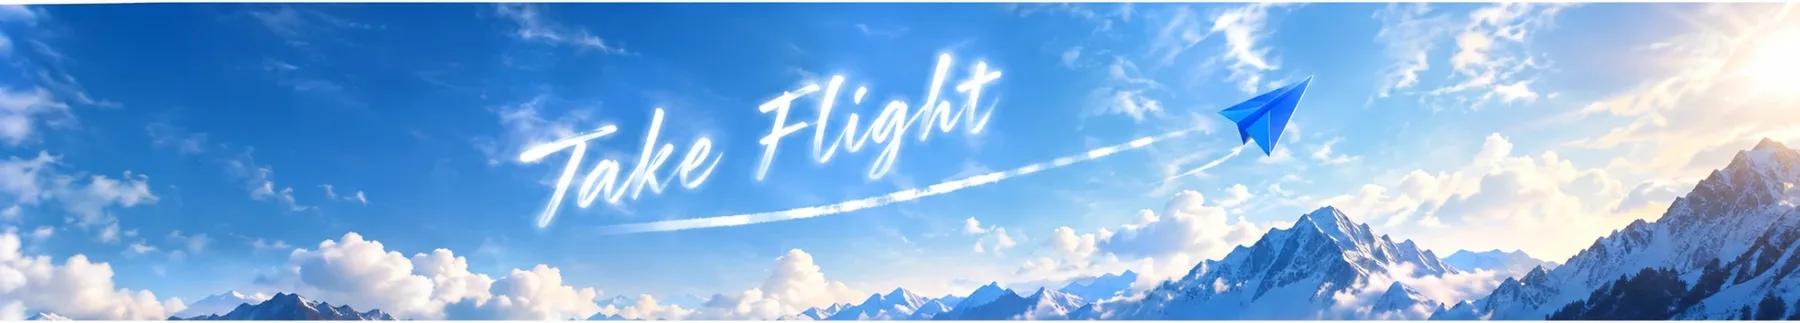
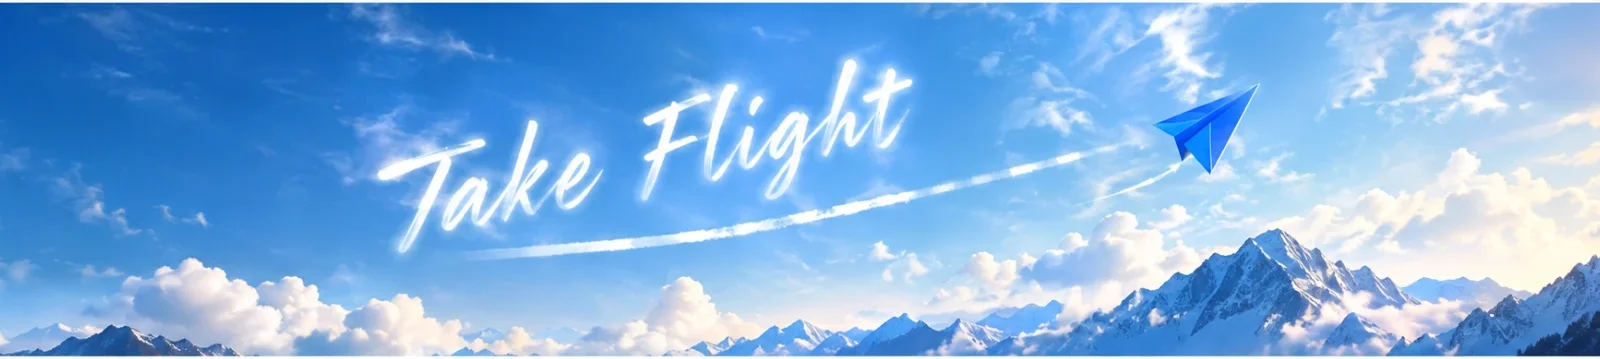
Phase 5 round 5: fix mention RLS bug, chat polish, square cover art, hero tweaks
Real bugs fixed: notifications RLS insert policy re-issued as a safety net
(schema_v19.sql) since mentioning someone was failing with a row-level
security violation; a global taskComments listener was tearing down and
rebuilding every open discussion panel's DOM on every message anywhere in
the episode, defeating round 17's smooth-reload fix specifically for task
comments (episode-level discussion was unaffected).

New: mentioned names get a highlighted background in rendered messages;
"Clear all messages" bulk-delete (with Undo) on any discussion; the task
comment panel now has a fixed height with its own scrollbar instead of
growing forever.

Visual: client photos (both the detail page and home-page cards) switched
from a wide banner strip to square "podcast cover art" proportions, with a
real center-crop at upload time; the Employee-of-the-Month photo is bigger,
borderless, and feathers into the hero photo via a mask-image vignette; the
hero banner's crop was widened for real pan room and repositioned slightly
right/down, verified at both wide and narrow window widths after an initial
attempt visibly clipped the "Flight" text.

Also: fixed a leftover em-dash in Cargo.toml's package description, and
documented that the "shows as WebView2 in Task Manager" complaint is a
confirmed, currently-unfixable upstream Tauri/WebView2 limitation on
Windows, not a bug in this app.

diff --git a/src/main.js b/src/main.js
@@ -91,6 +91,23 @@ function escapeHtml(s){ return String(s==null?'':s).replace(/[&<>"']/g,function(
 // Operates on already-escapeHtml()'d text (safe: the pattern below can't
 // match anything that would introduce a tag), so it's fine to inject the
 // resulting <a> markup straight into innerHTML.
+// Highlights "@Full Name" in an already-escaped+linkified comment body with
+// a light background, like every modern chat app (Slack/Discord/Teams) -
+// operates on the real mentioned-id list (the comment's own `mentions`
+// column), not a guess from the text, so it only highlights people who
+// were actually notified. `nameOf(uid)` is the caller's own uid->display-
+// name lookup (renderComment's `who()`, or getMentionRoster()'s map).
+function mentionifyHtml(html, mentionedIds, nameOf){
+  if(!mentionedIds || !mentionedIds.length) return html;
+  mentionedIds.forEach(function(uid){
+    var name = nameOf(uid);
+    if(!name || name==='Someone') return;
+    var esc = escapeHtml('@'+name);
+    var pattern = esc.replace(/[.*+?^${}()|[\]\\]/g, '\\$&');
+    html = html.replace(new RegExp(pattern, 'g'), '<span class="mention-highlight">'+esc+'</span>');
+  });
+  return html;
+}
 function linkifyHtml(escaped){
   return escaped.replace(/((?:https?:\/\/|www\.)[^\s<]+)/gi, function(match){
     // Trim off trailing punctuation that's almost always part of the
@@ -942,16 +959,22 @@ function renderHome(){
     var cards = docs.map(function(d,i){
       var c = d.data();
       var color = c.color || CLIENT_COLORS[i%CLIENT_COLORS.length];
+      // Cover-art card (2026-09-29): the square photo is the whole point of
+      // the card now - podcast/album-cover-art convention, same square
+      // treatment as the client detail page's own cover art. Hosted-by and
+      // overview text are gone per Humayun's explicit ask (services/team/
+      // view-board are the only footer info that remains) - the client's
+      // name stays as a minimal caption directly on the photo itself
+      // (gradient scrim, same idea as a Spotify/Apple Music tile) rather
+      // than disappearing completely, since a card with literally no label
+      // at all would make the grid unusable for actually finding a client.
       return '<a class="client-card" href="#/client/'+d.id+'">'+
-        '<div class="client-card-rail'+(c.imageUrl?'':' no-image')+'" style="'+(c.imageUrl?'background-image:url(\''+escapeHtml(c.imageUrl)+'\')':'background:linear-gradient(135deg,'+color+',var(--line-soft))')+'">'+
+        '<div class="client-card-photo'+(c.imageUrl?'':' no-image')+'" style="'+(c.imageUrl?'background-image:url(\''+escapeHtml(c.imageUrl)+'\')':'background:linear-gradient(135deg,'+color+',var(--line-soft))')+'">'+
         (canManage()?'<div class="client-card-actions"><button type="button" class="icon-btn" data-edit-client-card="'+d.id+'" title="Edit name/host">'+ICON_PENCIL+'</button><button type="button" class="icon-btn" data-delete-client-card="'+d.id+'" title="Delete client">'+ICON_TRASH+'</button></div>':'')+
+        '<div class="client-card-caption">'+escapeHtml(c.name)+'</div>'+
         '</div>'+
-        '<div class="client-card-body">'+
-        '<div class="client-card-name">'+escapeHtml(c.name)+'</div>'+
-        '<div class="client-card-host">Hosted by '+escapeHtml(c.hostName||'-')+'</div>'+
-        '<div class="client-card-tagline">'+escapeHtml(c.tagline||'')+'</div>'+
         '<div class="client-card-foot"><span>'+(c.services?c.services.length:0)+' services</span>'+(isAdmin()?'<span class="badge badge-team">'+escapeHtml(teamName(c.teamId))+'</span>':'')+(c.archived?'<span class="badge" style="background:var(--line-soft);">Archived</span>':'')+(c.example?'<span class="badge badge-upcoming">Example</span>':'<span>View board →</span>')+'</div>'+
-        '</div></a>';
+        '</a>';
     }).join('');
     if(canManage()) cards += '<button type="button" class="add-client-card" id="addClientCard">+ Add a client</button>';
     grid.innerHTML = cards || '<div class="empty-state">No clients'+(showArchivedClients?' in your team yet':' - toggle "Show archived" above if you\'re looking for one you archived')+'.</div>';
@@ -1025,15 +1048,21 @@ function renderClient(clientId){
     var c = snap.data();
     var mgr = canManage();
     paint(
-      '<div class="page-head"><div><div class="eyebrow">Client</div><h1 class="page-title">'+escapeHtml(c.name)+(c.archived?' <span class="badge" style="background:var(--line-soft);vertical-align:middle;">Archived</span>':'')+(mgr?' <button type="button" class="icon-btn" id="editClientNameBtn" title="Edit podcast name / host">'+ICON_PENCIL+'</button>':'')+'</h1>'+
-      '<div class="page-sub">Hosted by '+escapeHtml(c.hostName||'-')+' · <span id="clientTeamRow">Team: <b>'+escapeHtml(teamName(c.teamId))+'</b>'+(isAdmin()?' <button type="button" class="btn btn-sm" id="editTeamBtn" style="width:auto;padding:1px 8px;font-size:11px;vertical-align:middle;">Change</button>':'')+'</span></div></div>'+
-      '<div style="display:flex;align-items:flex-start;gap:8px;flex-wrap:wrap;">'+
+      // Cover art (square, podcast-art proportions - 2026-09-29) sits beside
+      // the header instead of a full-width banner strip above it, same
+      // "art beside metadata" layout convention podcast/album pages use.
+      '<div class="client-hero">'+
+      '<div class="client-cover'+(c.imageUrl?'':' no-image')+'" style="'+(c.imageUrl?'background-image:url(\''+escapeHtml(c.imageUrl)+'\')':'')+'">'+
+      (mgr?'<label class="client-cover-change" title="Change photo">'+ICON_PENCIL+'<input type="file" accept="image/*" id="clientImageInput" style="display:none;"></label>':'')+
+      '</div>'+
+      '<div class="client-hero-info">'+
+      '<div class="page-head" style="margin:0;"><div><div class="eyebrow">Client</div><h1 class="page-title">'+escapeHtml(c.name)+(c.archived?' <span class="badge" style="background:var(--line-soft);vertical-align:middle;">Archived</span>':'')+(mgr?' <button type="button" class="icon-btn" id="editClientNameBtn" title="Edit podcast name / host">'+ICON_PENCIL+'</button>':'')+'</h1>'+
+      '<div class="page-sub">Hosted by '+escapeHtml(c.hostName||'-')+' · <span id="clientTeamRow">Team: <b>'+escapeHtml(teamName(c.teamId))+'</b>'+(isAdmin()?' <button type="button" class="btn btn-sm" id="editTeamBtn" style="width:auto;padding:1px 8px;font-size:11px;vertical-align:middle;">Change</button>':'')+'</span></div></div></div>'+
+      '<div style="display:flex;align-items:flex-start;gap:8px;flex-wrap:wrap;margin-top:14px;">'+
       (mgr?'<button type="button" class="btn btn-sm" id="archiveClientBtn">'+(c.archived?'Unarchive':'Archive')+'</button><button type="button" class="btn btn-sm btn-danger" id="deleteClientBtn">Delete permanently</button>':'')+
       (mgr?'<button type="button" class="btn btn-primary btn-sm" id="genEpisodesBtn">Generate upcoming episodes</button>':'')+
       '</div>'+
       '</div>'+
-      '<div class="client-card-rail'+(c.imageUrl?'':' no-image')+'" style="margin-bottom:18px;border-radius:var(--radius);height:168px;position:relative;box-shadow:var(--shadow);'+(c.imageUrl?'background-image:url(\''+escapeHtml(c.imageUrl)+'\');background-size:cover;background-position:center;':'background:linear-gradient(135deg,var(--blue-soft),var(--line-soft));')+'">'+
-      (mgr?'<label class="btn btn-sm" style="position:absolute;bottom:10px;right:10px;cursor:pointer;">Change photo<input type="file" accept="image/*" id="clientImageInput" style="display:none;"></label>':'')+
       '</div>'+
       '<div class="overview-grid">'+
       '<div class="panel"><h3>Overview'+(mgr?' <button type="button" class="btn btn-sm" id="editOverviewBtn" style="float:right;">Edit</button>':'')+'</h3>'+
@@ -1097,7 +1126,13 @@ function renderClient(clientId){
     if(imgInput) imgInput.addEventListener('change', function(){
       var file = imgInput.files[0]; if(!file) return;
       showToast('success','Uploading photo…');
-      compressImage(file, {maxWidth:800,maxHeight:800,quality:.85}).then(function(blob){
+      // Square cover-art crop (2026-09-29, podcast/album-art convention,
+      // matches the client-cover display which is a real square, not just
+      // square via CSS) - 1200px is already far sharper than this ever
+      // needs to render at in the UI (the cover art tops out at ~190px on
+      // screen, more on a big monitor's home-page grid), so this stays well
+      // short of literally shipping a 3000x3000 file for no visible gain.
+      compressImage(file, {maxWidth:1200,maxHeight:1200,quality:.88,square:true}).then(function(blob){
         var key = 'clients/'+clientId+'/photo_'+Date.now()+'.jpg';
         return uploadFile(new File([blob],'photo.jpg',{type:'image/jpeg'}), key);
       }).then(function(key){
@@ -1986,18 +2021,45 @@ function renderEpisode(episodeId){
       // re-renders this episode's checklist with them, the same "global
       // table subscription, filtered query on each refetch" pattern the
       // tasks listener itself already uses.
-      function fetchAndRenderCounts(){
+      function fetchCommentCounts(){
         var taskIds = ts.docs.map(function(d){ return d.id; });
-        (taskIds.length ? db.collection('taskComments').where('taskId','in',taskIds).get() : Promise.resolve({docs:[]}))
+        return (taskIds.length ? db.collection('taskComments').where('taskId','in',taskIds).get() : Promise.resolve({docs:[]}))
           .then(function(cSnap){
             var counts = {};
             cSnap.docs.forEach(function(d){ var row=d.data(); counts[row.taskId]=(counts[row.taskId]||0)+1; });
-            renderChecklist(counts);
+            return counts;
           })
-          .catch(function(){ renderChecklist({}); }); // fails open - still render the checklist without counts if this one query fails
+          .catch(function(){ return {}; }); // fails open - still render the checklist without counts if this one query fails
       }
-      refreshCountsNow = fetchAndRenderCounts;
-      fetchAndRenderCounts();
+      // Phase 5 fix (2026-09-29, "the screen starts loading" every time a
+      // message is sent): this used to call renderChecklist(counts) - a
+      // full box.innerHTML rebuild of every task row - on EVERY taskComments
+      // change anywhere in the episode (see unsubComments below, which has
+      // no filter). That tore down and recreated every already-expanded
+      // "Comments, links & files" panel's DOM node from scratch, which lost
+      // the data-collab-ready flag loadCollab() relies on to skip its
+      // blank-skeleton loading state on a reload - so sending your own
+      // message re-triggered the exact jarring blank-screen flash that fix
+      // was supposed to prevent. refreshCountsNow now only does that full
+      // rebuild on the very first render (when the task list itself needs
+      // building); every later comment-driven refresh just patches each
+      // closed task's count label in place and re-loads an already-open
+      // panel on its EXISTING node (loadCollab's own fade-in path handles
+      // that smoothly) - nothing gets torn down.
+      refreshCountsNow = function(){
+        fetchCommentCounts().then(function(counts){
+          Array.prototype.forEach.call(box.querySelectorAll('[data-collab]'), function(btn){
+            var taskId = btn.getAttribute('data-collab');
+            if(expandedTasks[taskId]){
+              var panel = document.getElementById('collab_'+taskId);
+              if(panel) loadTaskCollab(taskId, panel);
+            } else {
+              btn.textContent = 'Comments, links & files'+(counts[taskId]?' ('+counts[taskId]+')':'');
+            }
+          });
+        });
+      };
+      fetchCommentCounts().then(renderChecklist);
 
       function taskRowHtml(t, commentCounts){
         var r = roleOf(t.role);
@@ -2461,7 +2523,7 @@ function loadCollab(kind, id, panel){
         var editedInline = (grouped && c.editedAt) ? ' <span class="comment-edited-tag">(edited)</span>' : '';
         return '<div class="comment-row'+(grouped?' comment-row-grouped':'')+'" data-id="'+c.id+'">'+gutter+
           '<div class="comment-main">'+actions+head+
-          (c.body?'<div class="comment-body">'+linkifyHtml(escapeHtml(c.body))+editedInline+'</div>':'')+
+          (c.body?'<div class="comment-body">'+mentionifyHtml(linkifyHtml(escapeHtml(c.body)), c.mentions, who)+editedInline+'</div>':'')+
           attHtml+renderReactions(c.id)+
           '</div></div>';
       }
@@ -2477,6 +2539,39 @@ function loadCollab(kind, id, panel){
           (l.editedAt?'<span class="comment-edited-tag">(edited)</span>':'')+
           actionButtons('edit-link="'+l.id+'"', 'delete-link="'+l.id+'"', l.addedBy)+
           '</div>';
+      }
+
+      // Clears every message in this discussion at once (Humayun's ask,
+      // 2026-09-29) - a manager/admin-only bulk action, same access tier
+      // the existing per-comment delete RLS policy already grants for
+      // someone else's comment (see supabase/schema_v5.sql's "...delete"
+      // policies: author, admin, or a manager of that comment's own team -
+      // canManage() here is just the client-side mirror of that same
+      // check). Reactions have no FK cascade onto the comment tables (see
+      // schema_v6.sql), so they're deleted explicitly; attachments DO
+      // cascade at the database level, so they're only snapshotted here
+      // (for Undo) and not separately deleted.
+      function clearAllComments(){
+        if(!comments.length) return;
+        var n = comments.length;
+        if(!confirm('Delete all '+n+' message'+(n===1?'':'s')+' in this discussion? This also removes their attachments and reactions - use Undo right after if you change your mind.')) return;
+        var commentIds = comments.map(function(c){ return c.id; });
+        var reactionSnap = reactions.filter(function(r){ return commentIds.indexOf(r.commentId)>-1; });
+        var attachmentSnap = attachments.filter(function(a){ return a.commentId && commentIds.indexOf(a.commentId)>-1; });
+        var commentTuples = comments.map(function(c){ return {col:cfg.comments, id:c.id, data:c}; });
+        var reactionTuples = reactionSnap.map(function(r){ return {col:'commentReactions', id:r.id, data:r}; });
+        var attachmentTuples = attachmentSnap.map(function(a){ return {col:cfg.attachments, id:a.id, data:a}; });
+        Promise.all(
+          commentIds.map(function(cid){ return db.doc(cfg.comments+'/'+cid).delete(); })
+            .concat(reactionSnap.map(function(r){ return db.doc('commentReactions/'+r.id).delete(); }))
+        ).then(function(){
+          actionWithUndo('Cleared '+n+' message'+(n===1?'':'s'), function(){
+            restoreSnapshot([commentTuples, reactionTuples.concat(attachmentTuples)])
+              .then(function(){ showToast('success','Restored'); loadCollab(kind,id,panel); })
+              .catch(function(err){ showToast('error','Restore failed - '+errMsg(err)); });
+          });
+          loadCollab(kind,id,panel);
+        }).catch(function(err){ showToast('error', errMsg(err)); });
       }
 
       function render(){
@@ -2498,6 +2593,7 @@ function loadCollab(kind, id, panel){
         var prevTop = null;
         panel.setAttribute('data-collab-ready','1');
         panel.innerHTML =
+          (comments.length && canManage() ? '<button type="button" class="collab-clear-all-btn" id="clearAllBtn_'+id+'">Clear all messages</button>' : '')+
           '<div class="collab-list collab-fade-in">'+
             (topLevelComments.length ? topLevelComments.map(function(c){
               var topGrouped = isContinuation(prevTop, c);
@@ -2634,6 +2730,8 @@ function loadCollab(kind, id, panel){
       var mentionBox = null;
       function hideMentionBox(){ if(mentionBox){ mentionBox.remove(); mentionBox = null; } }
       function wire(){
+        var clearAllBtn = document.getElementById('clearAllBtn_'+id);
+        if(clearAllBtn) clearAllBtn.addEventListener('click', clearAllComments);
         var textarea = document.getElementById('commentInput_'+id);
         document.getElementById('commentSend_'+id).addEventListener('click', sendComposerMessage);
         textarea.addEventListener('keydown', function(ev){

diff --git a/src/style.css b/src/style.css
@@ -189,6 +189,19 @@ button,input,select,textarea{font-family:inherit;color:inherit;}
 }
 .eyebrow{font-size:11px;text-transform:uppercase;letter-spacing:1.6px;color:var(--muted);font-weight:600;margin-bottom:7px;}
 .page-head{display:flex;align-items:flex-start;justify-content:space-between;gap:16px;margin-bottom:24px;flex-wrap:wrap;}
+/* Client detail page's cover-art header (2026-09-29) - square "podcast
+   cover art" proportions sitting beside the page-head, instead of a short
+   wide banner strip above it. */
+.client-hero{display:flex;gap:22px;align-items:flex-start;margin-bottom:28px;}
+.client-cover{width:190px;height:190px;flex:none;border-radius:var(--radius);overflow:hidden;position:relative;box-shadow:var(--shadow);background-size:cover;background-position:center;background-color:var(--line-soft);}
+.client-cover.no-image{background-image:linear-gradient(135deg,var(--blue-soft),var(--line-soft));}
+.client-cover-change{position:absolute;bottom:9px;right:9px;width:32px;height:32px;border-radius:50%;background:rgba(10,20,40,.55);color:#fff;display:flex;align-items:center;justify-content:center;cursor:pointer;transition:background .12s ease,transform .12s ease;}
+.client-cover-change:hover{background:rgba(10,20,40,.78);transform:scale(1.06);}
+.client-hero-info{flex:1;min-width:0;padding-top:2px;}
+@media (max-width:640px){
+  .client-hero{flex-direction:column;}
+  .client-cover{width:100%;height:auto;aspect-ratio:1/1;}
+}
 .page-back-btn{display:inline-flex;align-items:center;gap:6px;border:none;background:none;color:var(--muted);font-size:13px;font-weight:600;padding:0;margin-bottom:14px;cursor:pointer;}
 .page-back-btn:hover{color:var(--ink);}
 .page-title{font-size:32px;}
@@ -208,21 +221,24 @@ button,input,select,textarea{font-family:inherit;color:inherit;}
 .card-grid{display:grid;grid-template-columns:repeat(auto-fill,minmax(240px,1fr));gap:18px;}
 .client-card{background:var(--surface);border:1px solid var(--line);border-radius:var(--radius);padding:0;box-shadow:var(--shadow);text-decoration:none;color:var(--ink);overflow:hidden;display:flex;flex-direction:column;transition:transform .18s var(--ease),box-shadow .18s ease,border-color .18s ease;}
 .client-card:hover{border-color:var(--blue);transform:translateY(-4px);box-shadow:var(--shadow-lg);}
-.client-card-rail{height:92px;background-size:cover;background-position:center;position:relative;overflow:hidden;}
-/* Edit/delete straight from the home card (2026-09-28) - sits on the rail
-   so it reads the same regardless of whether the rail is a photo or a
-   plain color gradient; hover-revealed like every other row-action this
-   app uses, dark translucent buttons for contrast against either. */
+/* Cover-art card (2026-09-29): the square photo IS the card now - podcast/
+   album-art convention, same square treatment as the client detail page's
+   own cover art. Hosted-by/overview text are gone (Humayun's explicit ask -
+   services/team/view-board are the only footer info left); the name stays
+   as a minimal caption on the photo itself rather than disappearing
+   entirely, so the grid is still usable for actually finding a client. */
+.client-card-photo{width:100%;aspect-ratio:1/1;background-size:cover;background-position:center;position:relative;overflow:hidden;}
+.client-card-photo.no-image{background-image:linear-gradient(135deg,var(--blue-soft),var(--line-soft));}
+/* Edit/delete straight from the home card (2026-09-28) - sits on the photo
+   so it reads the same regardless of whether it's a real photo or a plain
+   color gradient; hover-revealed like every other row-action this app
+   uses, dark translucent buttons for contrast against either. */
 .client-card-actions{position:absolute;top:7px;right:7px;display:flex;gap:4px;opacity:0;transition:opacity .12s ease;z-index:2;}
 .client-card:hover .client-card-actions{opacity:1;}
 .client-card-actions .icon-btn{background:rgba(0,0,0,.45);color:#fff;}
 .client-card-actions .icon-btn:hover{background:rgba(0,0,0,.7);color:#fff;}
-.client-card-rail.no-image{background:linear-gradient(135deg,var(--blue-soft),var(--line-soft));}
-.client-card-body{padding:17px;display:flex;flex-direction:column;gap:6px;flex:1;}
-.client-card-name{font-family:var(--font-display);font-size:22px;font-weight:600;}
-.client-card-host{font-size:12.5px;color:var(--muted);}
-.client-card-tagline{font-size:13px;color:var(--ink-soft);margin-top:4px;line-height:1.45;}
-.client-card-foot{margin-top:auto;padding-top:11px;border-top:1px solid var(--line);font-size:12px;color:var(--muted);display:flex;justify-content:space-between;align-items:center;}
+.client-card-caption{position:absolute;left:0;right:0;bottom:0;padding:26px 14px 12px;background:linear-gradient(to top,rgba(8,16,32,.72),transparent);color:#fff;font-family:var(--font-display);font-size:17px;font-weight:700;text-shadow:0 1px 6px rgba(0,0,0,.3);}
+.client-card-foot{padding:11px 14px;font-size:12px;color:var(--muted);display:flex;justify-content:space-between;align-items:center;}
 .add-client-card{border:1.5px dashed var(--line);border-radius:var(--radius);display:flex;align-items:center;justify-content:center;min-height:124px;color:var(--muted);font-weight:600;font-size:14px;cursor:pointer;background:none;transition:border-color .15s ease,color .15s ease,transform .15s ease;}
 .add-client-card:hover{border-color:var(--blue);color:var(--blue);transform:translateY(-2px);}
 .section{margin-top:38px;}
@@ -321,7 +337,9 @@ button,input,select,textarea{font-family:inherit;color:inherit;}
    afterthought and felt cramped ("too small") - now a proper card with its
    own background/border/padding and a real minimum height so it presents
    as a genuine discussion panel even with only one or two messages in it. */
-.task-collab{margin-top:12px;padding:14px;background:var(--paper);border:1px solid var(--line);border-radius:12px;min-height:200px;display:flex;flex-direction:column;gap:10px;}
+.task-collab{margin-top:12px;padding:14px;background:var(--paper);border:1px solid var(--line);border-radius:12px;height:250px;display:flex;flex-direction:column;gap:10px;}
+.task-collab .collab-fade-in{flex:1;overflow-y:auto;min-height:0;}
+.task-collab .composer{flex:0 0 auto;}
 /* Phase 2.5 batch A: a class selector like .task-collab{display:flex} beats
    the browser's own [hidden]{display:none} rule on specificity, so setting
    the `hidden` attribute (which the JS "Hide discussion" handler already
@@ -340,6 +358,8 @@ button,input,select,textarea{font-family:inherit;color:inherit;}
    loadCollab()'s isContinuation()/renderComment() in main.js. */
 .collab-list{display:flex;flex-direction:column;gap:10px;padding:4px 2px;}
 .collab-fade-in{animation:fadeIn .16s ease;}
+.collab-clear-all-btn{align-self:flex-end;flex:0 0 auto;border:none;background:none;color:var(--muted);font-size:11.5px;font-weight:600;cursor:pointer;padding:2px 4px;margin-bottom:2px;transition:color .12s ease;}
+.collab-clear-all-btn:hover{color:var(--overdue);}
 .collab-empty{font-size:13px;color:var(--muted);padding:14px 2px;}
 .comment-row{font-size:13.5px;display:flex;gap:11px;padding:5px 10px;border-radius:10px;transition:background .1s ease;position:relative;}
 .comment-row:hover{background:var(--paper);}
@@ -362,6 +382,7 @@ button,input,select,textarea{font-family:inherit;color:inherit;}
 .icon-btn:hover{background:var(--line);color:var(--ink);}
 .comment-body{white-space:pre-wrap;word-break:break-word;line-height:1.5;}
 .comment-body a{color:var(--blue-2);}
+.mention-highlight{background:var(--blue-soft);color:var(--blue-2);border-radius:4px;padding:1px 4px;font-weight:600;}
 .comment-edit-box,.link-edit-box{display:flex;flex-direction:column;gap:6px;margin-top:3px;}
 .comment-edit-input{width:100%;min-height:60px;border:1px solid var(--line);background:var(--surface);border-radius:10px;padding:9px 11px;font-size:13.5px;font-family:inherit;resize:vertical;}
 .comment-edit-actions{display:flex;gap:8px;}
@@ -564,8 +585,13 @@ button,input,select,textarea{font-family:inherit;color:inherit;}
 .avatar-drop-hint{font-size:12px;color:var(--muted);}
 
 /* ---------- spotlight / hero banner ("Take Flight") ---------- */
-.spotlight-banner{position:relative;overflow:hidden;border-radius:20px;min-height:196px;padding:26px 30px;margin-bottom:30px;display:flex;align-items:center;gap:20px;background:linear-gradient(100deg,rgba(10,22,48,.55) 0%,rgba(10,22,48,.08) 55%,transparent 80%),url('/hero-banner.webp') center/cover no-repeat,linear-gradient(120deg,var(--blue),var(--blue-2));color:#fff;box-shadow:var(--shadow-lg);}
-.spotlight-photo{width:76px;height:76px;border-radius:16px;object-fit:cover;border:3px solid rgba(255,255,255,.5);flex:none;position:relative;z-index:1;box-shadow:var(--shadow);}
+.spotlight-banner{position:relative;overflow:hidden;border-radius:20px;min-height:196px;padding:26px 30px;margin-bottom:30px;display:flex;align-items:center;gap:20px;background:linear-gradient(100deg,rgba(10,22,48,.55) 0%,rgba(10,22,48,.08) 55%,transparent 80%),url('/hero-banner.webp') 53% 56%/cover no-repeat,linear-gradient(120deg,var(--blue),var(--blue-2));color:#fff;box-shadow:var(--shadow-lg);}
+/* Bigger, borderless, and feathered into the hero photo behind it (a soft
+   radial mask instead of a hard-edged square with a border) - 2026-09-29,
+   "shouldn't be enclosed in a box." Falls back to a plain circle in browsers
+   without mask-image support (very old WebView2 runtimes) rather than an
+   invisible photo. */
+.spotlight-photo{width:118px;height:118px;object-fit:cover;border-radius:50%;border:none;flex:none;position:relative;z-index:1;box-shadow:none;-webkit-mask-image:radial-gradient(circle at center, #000 52%, transparent 82%);mask-image:radial-gradient(circle at center, #000 52%, transparent 82%);}
 .spotlight-body{position:relative;z-index:1;flex:1;}
 .spotlight-eyebrow{font-size:11px;text-transform:uppercase;letter-spacing:1.6px;opacity:.9;font-weight:700;text-shadow:0 1px 6px rgba(0,0,0,.35);}
 .spotlight-name{font-family:var(--font-display);font-size:27px;font-weight:800;margin-top:3px;text-shadow:0 2px 14px rgba(0,0,0,.4);}

diff --git a/src/lib/imageCompress.js b/src/lib/imageCompress.js
@@ -3,19 +3,32 @@
 // on the Rust side at capture time (see src-tauri/), since re-encoding a
 // full screen capture through a JS canvas would mean shipping the
 // uncompressed bitmap across the Tauri IPC bridge first for no reason.
-export function compressImage(file, { maxWidth = 640, maxHeight = 640, quality = 0.82, mime = 'image/jpeg' } = {}) {
+export function compressImage(file, { maxWidth = 640, maxHeight = 640, quality = 0.82, mime = 'image/jpeg', square = false } = {}) {
   return new Promise((resolve, reject) => {
     const url = URL.createObjectURL(file);
     const img = new Image();
     img.onload = () => {
-      let { width, height } = img;
-      const scale = Math.min(1, maxWidth / width, maxHeight / height);
-      width = Math.round(width * scale);
-      height = Math.round(height * scale);
       const canvas = document.createElement('canvas');
-      canvas.width = width; canvas.height = height;
       const ctx = canvas.getContext('2d');
-      ctx.drawImage(img, 0, 0, width, height);
+      if (square) {
+        // Center-crop to 1:1 first (podcast/album cover-art convention -
+        // whatever shape someone uploads, the stored file is always a real
+        // square, not just square-LOOKING via CSS cropping at display time),
+        // then scale that square crop down to the target size.
+        const side = Math.min(img.width, img.height);
+        const sx = (img.width - side) / 2;
+        const sy = (img.height - side) / 2;
+        const size = Math.min(maxWidth, maxHeight, side);
+        canvas.width = size; canvas.height = size;
+        ctx.drawImage(img, sx, sy, side, side, 0, 0, size, size);
+      } else {
+        let { width, height } = img;
+        const scale = Math.min(1, maxWidth / width, maxHeight / height);
+        width = Math.round(width * scale);
+        height = Math.round(height * scale);
+        canvas.width = width; canvas.height = height;
+        ctx.drawImage(img, 0, 0, width, height);
+      }
       URL.revokeObjectURL(url);
       canvas.toBlob((blob) => {
         if (!blob) { reject(new Error('Could not compress image')); return; }

diff --git a/docs/phase-3-punch-list.md b/docs/phase-3-punch-list.md
@@ -287,8 +287,33 @@ Per Humayun's "keep going, rounds 4+" answer - continuing the staged rollout wit
 - **A process note worth keeping**: while investigating the music player in round 17.5, a `git worktree` test against a pre-Phase-5 commit confirmed a local-build-only quirk (no real `.env` here → `supabaseConfigured` becomes a compile-time `false` → Rollup dead-code-eliminates most of `boot()`) that made local `dist/` output look broken when it isn't - see round 17.5's write-up. Worth remembering for any future round: don't grep this sandbox's `dist/` output for feature verification, only for syntax-check-level confidence (which is all it's ever reliably given here).
 - Verified with a real `npm run build` plus an actual browser screenshot of the sidebar footer's icon row (all 4 buttons + truncated name) against the real compiled CSS, at the real ~264px sidebar width.
 
+### Round 19 (2026-09-29) - real bug testing round 18's build turned up: mention RLS failure, plus a big batch of chat/photo/hero polish from Humayun's own testing notes
+
+Humayun tested the round-18 build and reported a real bug plus a long list of concrete UI/UX requests in one message. Triaged and worked through all of it except the music-hosting architecture, which he explicitly said to defer ("no need to implement this now... but be sure to make this feature work then" - see the Still Open note below for the research done anyway, ready for whenever that round starts).
+
+- [x] **Real bug: mentioning someone failed - "new row violates row-level security policy for table notifications."** Postgres shows exactly that message when RLS is on for a table but no policy actually grants the attempted operation. Given `schema_v18.sql` already defines a permissive insert policy (`with check (auth.uid() is not null)`), the most likely explanation is that table's RLS got enabled without all three of its policy statements landing correctly on the live database (e.g. the SQL editor only ran part of the file, or an earlier partial version of the table existed first with different/no policies). **Fix:** `supabase/schema_v19.sql` re-issues the exact same three policies as a safety net - a no-op if they're already correct, a real fix if any of them are missing or different on the live database. **Needs `schema_v19.sql` run** before mentions will work.
+- [x] **Mentioned names now get a highlighted background** ("@Humayun Mir" style, like Slack/Discord/Teams) - new `mentionifyHtml()` wraps each mentioned person's name in a `.mention-highlight` span (light blue background, matches the app's own accent blue) wherever it appears in an already-rendered comment body. Uses the comment's own real `mentions` column (who was actually notified), not a guess from the text.
+- [x] **"Clear all messages" added to every discussion** (both per-task and per-episode, since both share `loadCollab()`) - a small "Clear all messages" link-button above the message list, shown only to a manager/admin (mirrors the existing per-comment delete policy's own access tier) and only when there's something to clear. Deletes every comment plus its reactions (no FK cascade exists for those) and relies on the database's own cascade for attachments; wrapped in the same commit-immediately-offer-Undo pattern as every other delete in this app, with a real confirm() first given how much a bulk action like this can remove at once.
+- [x] **Real bug found and fixed: the "Comments, links & files" panel kept growing taller as messages arrived, with no scrollbar** (unlike the episode-level Discussion panel, which already had a proper fixed height + internal scroll). Root cause: `.task-collab` only ever had a `min-height`, no cap and no `overflow-y:auto`. Fixed: fixed `height:250px` (up from 200px, the requested "+25%") with the message list scrolling internally and the composer pinned at the bottom - same nested-flex pattern the episode panel already used, just not applied here.
+- [x] **Real, deeper bug found and fixed: sending a task comment re-triggered the exact "screen flashes blank and reloads" symptom round 17 was supposed to have already fixed.** Root cause was one level up from `loadCollab()` itself: the episode checklist keeps a global, unfiltered live subscription on the ENTIRE `taskComments` table (`unsubComments`, added earlier for the comment-count badge) that, on every single comment change anywhere in the episode, called `renderChecklist()` - a full `box.innerHTML` rebuild of every task row. That tore down and recreated every already-open "Comments, links & files" panel's DOM node from scratch on every message (including your own), which wiped the `data-collab-ready` flag round 17's fix depends on to skip the blank-skeleton state - so the fix was real, it was just being defeated by an unrelated listener one level up. **Fix:** split the count-refresh path in two - the tasks list's own first render still does a full rebuild (genuinely needed when tasks themselves change), but the `taskComments`-triggered refresh now only patches each closed task's count label in place and reloads an already-open panel on its *existing* DOM node, which lets `loadCollab()`'s own smooth fade-in actually work instead of tearing the node down first.
+- [x] **Client detail page's photo switched from a wide banner strip to square "podcast cover art" proportions** (matching Spotify/Apple Podcasts convention) - new `.client-hero`/`.client-cover` layout puts a 190px square (crops to true square on upload, not just via CSS - see `imageCompress.js`'s new `square` option, a real center-crop before scaling) beside the page header instead of a strip above it, freeing the layout to read more like an album/podcast detail page. Capped at 1200px per side, not a literal 3000x3000 - the cover art never renders larger than ~190-200px on screen anywhere in the app, so a genuinely 3000px file would be pure wasted storage/bandwidth for zero visible gain; 1200px is already sharp on a retina display at that size.
+- [x] **Home page's client cards get the same square treatment** - the photo is now the whole card (aspect-ratio 1:1, `.client-card-photo`), with the hosted-by line and overview tagline removed entirely per Humayun's explicit ask. **One deliberate deviation from the literal ask, flagged for confirmation**: the client's *name* was kept as a small caption directly on the photo (bottom-left, soft gradient scrim - the same "cover art + caption" pattern Spotify/Apple Music tiles use) rather than disappearing completely, since a card with genuinely no label at all would make the home grid unusable for finding a specific client. Services count, team badge, and "View board" stayed in a slim footer strip below the photo, exactly as asked. **If you actually want the name gone too, say so and it's a one-line change** (delete the `.client-card-caption` div).
+- [x] **Home hero's Employee-of-the-Month photo is no longer boxed in** - bigger (76px → 118px), no border/box-shadow, and its edges now feather into the sky photo behind it via a radial `mask-image` (soft vignette cutout) instead of a hard-edged square, so it genuinely blends into the background per the "cloudy feather" ask.
+- [x] **Hero banner image repositioned slightly right/down** - re-exported `public/hero-banner.webp` from a narrower 1600px-wide crop of the original source (was 1800px) specifically to create real pan room: the original crop was trimmed so tight to the "Take Flight" text band that there was only ~8px of vertical slack to shift within at typical widths, and a first attempt at a bigger shift (`58% 62%`) visibly clipped the word "Flight" at narrower window widths when actually screenshotted - dialed back to `53% 56%`, verified at both a full ~1140px width and a ~520px narrow width in the browser before settling on it. The original full source image (2000x670, with ~150px of genuinely blank white padding above and below the real photo content on each side, confirmed by sampling actual pixel values) didn't have any hidden extra photo detail to reveal - the fix was cropping narrower left-to-right instead, which is real image real estate that exists in the 2000px-wide source.
+- [x] **`Cargo.toml`'s package description had a leftover em-dash** - fixed for consistency with the project's existing "no em-dashes anywhere" convention, even though this is Rust package metadata rather than in-app UI text.
+- **Investigated, no code fix available: "why does the app show up as WebView2 [Manager] in Task Manager."** Researched against Tauri's own GitHub issues - this is a confirmed, currently-unresolved upstream limitation of WebView2-based apps on Windows 11 (Tauri, and other WebView2-hosted apps, are affected the same way): the background WebView2 renderer/GPU child processes every such app spawns show up as their own separate "WebView2" entries in Task Manager instead of being grouped under the parent app, and a Tauri core maintainer has confirmed there's no WebView2 API or Tauri-level setting that controls this - `SetCurrentProcessExplicitAppUserModelID` (which Tauri already calls, for taskbar grouping) does not affect Task Manager's grouping. Nothing to fix in this app's own code for that specific complaint. **Separately, the icon:** `icon.ico` was already confirmed round 17 to be a real multi-resolution file (16px through 256px, all 32bpp) - if it still looks low-res on the desktop/taskbar after installing this round's build, that's very likely Windows' own icon cache holding onto the OLD file's bitmap rather than anything wrong with the new one (a well-known Windows quirk, especially for an app re-installed to the same path) - worth trying a full uninstall + reboot (or clearing the icon cache: `ie4uinit.exe -ClearIconCache`) before assuming the icon itself is still bad.
+- Verified with a real `npm run build`.
+
 ## Still open / needs your input
 
+- [ ] **Run `supabase/schema_v19.sql`** before testing @mentions again - it re-issues the notifications table's RLS policies as a safety net against whatever's actually different on the live database (see round 19's write-up above).
+- [ ] **Round 19's whole batch needs a real in-app test**: mention someone and confirm it succeeds and shows the highlighted "@Name" styling; open a busy discussion and confirm "Clear all messages" works (and Undo brings everything back, including reactions); expand a task's discussion and confirm it now has a fixed height with its own scrollbar instead of growing forever; send several task comments back-to-back and confirm the panel no longer flashes/reloads; upload a client photo and confirm it displays as a proper square on both the client page and its home-page card; check the Home hero's Employee-of-the-Month photo looks feathered/borderless once someone's actually set; and take a look at the hero banner's new position in the real window (not just narrow/wide browser screenshots) to confirm the shift looks right to you.
+- [ ] **Confirm the client-card caption decision** (round 19): the client's name was kept as a small caption on the photo itself rather than removed entirely - flagged above as a judgment call, say the word if you want it gone too.
+- [ ] **Music/audio hosting architecture - explicitly deferred by Humayun to "the final update of the day," but researched ahead of time so that round can start immediately once he's ready.** Constraints given: (A) free or a service already paid for (Google Drive, 2TB plan) - Cloudflare was ruled out over the library's 10GB+ size; (B) streaming speed comparable to the current YouTube-embed setup; (C) organized by mood, same as today. Three real options, not yet built or decided on:
+  - **Option A - move the files into the existing Cloudflare R2/Worker setup** (already built for file attachments in this app) organized into one folder per mood. Correction worth flagging: R2's free tier is 10GB, but *beyond* that it's $0.015/GB/month storage with **zero egress/bandwidth fees** - so a ~20-30GB library would likely run $1-3/month total, not a wall at 10GB. This is almost certainly the fastest and most reliable of the three (global CDN, no per-file quota) and the least new code to build, but it's a small new cost rather than something already paid for, so it doesn't cleanly satisfy constraint (A) as stated.
+  - **Option B - stream directly from Google Drive via a new Cloudflare Worker proxy**, authenticated with a Google Cloud service account (not a public share link - public Drive links are rate-limited per-file and show "too many users"/virus-scan-warning errors under real traffic, which would fail constraint B badly). Genuinely free (uses the existing 2TB plan), moderate build effort (new Worker + a Google Cloud service account + sharing the music folder with it), and mood folders in Drive map directly to categories. Likely solid but probably not quite YouTube-CDN-fast, especially for anyone far from Google's nearest edge.
+  - **Option C - hybrid**: keep the files in Drive as the permanent library/backup (satisfies "don't want to delete anything I've collected"), but sync a copy into R2 for actual playback. Gets Option A's speed with Drive still as the source of truth - same small R2 cost as Option A, plus a one-time (or periodic) sync step to build.
+  - Not started - needs Humayun's call on which of these he'd rather build once this round's other work is confirmed working.
 - [ ] **Phase 5 round 1 (round 17) is visual-only, no schema changes, but still needs a real look in the actual Tauri window** - sidebar logo/tagline/icon buttons, the Home page hero banner in both light and dark, the app's taskbar/title-bar icon, and sending a few chat messages back-to-back to confirm the panel no longer flashes blank each time. Per Humayun's staged-rollout instruction, this is expected to wait until the whole Phase 5 overhaul is done rather than being tested round-by-round.
 - [ ] **Round 15's pieces all need a real in-app test** after `supabase/schema_v17.sql` and `schema_v18.sql` are run (independent of each other and of v12-v16): create/rename/delete a role and confirm it actually saves now; press Ctrl+Z right after a delete and confirm it undoes; check the Publishing schedule box's font; delete a client from its home-page card and an episode from its list row, without opening either first; @mention a teammate in a comment and confirm THEY see a bell badge, a toast+sound if the app's open, and the notification in their inbox linking back to the right place.
 - [ ] **Round 16's fixes need a real in-app test** after `schema_v17.sql`/`schema_v18.sql` are confirmed run: delete a task/step and confirm Undo (including Ctrl+Z) actually restores it now; @mention someone and confirm they get a bell badge + toast + sound this time; generate episodes / add a custom task / add a new workflow step and confirm the right role-holders get a "new task" notification naming the task/episode/client.
